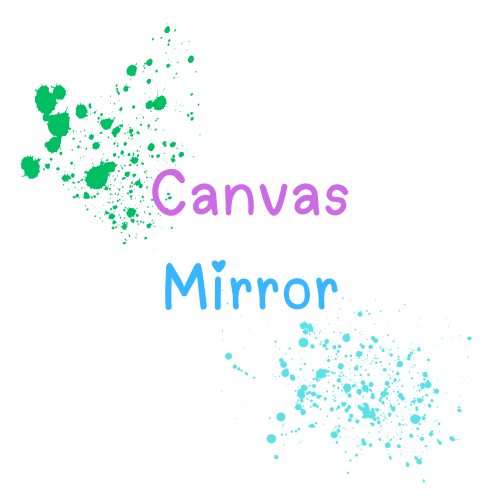
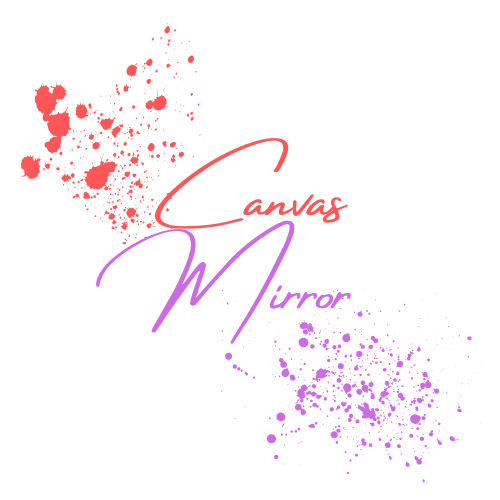
new img art

diff --git a/client/screens/lobby.tsx b/client/screens/lobby.tsx
@@ -2,7 +2,7 @@ import { ChevronLeft, ChevronRight } from "lucide-react";
 import { useEffect, useRef, useState, type FormEvent } from "react";
 import { useNavigate } from "react-router-dom";
 // import { useSocket } from "../services/use-socket-provider";
-
+import Footer from "../components/footer";
 function Lobby() {
   const navigate = useNavigate();
   const [details, setDetails] = useState({ name: "", room: "" });
@@ -121,98 +121,86 @@ function Lobby() {
   }, []);
 
   return (
-    <div className="flex  w-full h-[100dvh] overflow-hidden max-md:flex-col items-center">
-      <div className="w-full max-md:hidden h-full relative flex-2  p-2 items-center ">
-        <div
-          ref={sliderRef}
-          draggable={false}
-          className={` absolute h-full w-[2px] top-0 right-[0%] z-20 before:content-[''] before:absolute before:w-12 before:bg-pink-300 before:z-20 before:rounded-full before:p-1 after:w-10 after:content-[''] after:flex after:items-center after:justify-center after:text-center after:absolute after:bg-purple-400 after:h-10 after:rounded-full after:-translate-y-1/2 after:-translate-x-1/2 after:top-[50%] before:-translate-y-1/2 before:-translate-x-1/2 before:top-[50%] bg-teal-300 after:z-30 before:h-12 transition ease-in-out  cursor-ew-resize noselect`}
-        >
-          <span className="top-[50%] flex  -translate-y-1/2 left-[-20px] absolute z-40  ">
-            <ChevronLeft className="w-5 h-5 text-slate-100 translate-x-0.5" />
-            <ChevronRight className="w-5 h-5 text-slate-100 -translate-x-0.5" />
-          </span>
-        </div>
-        <img
-          ref={imageRef}
-          src="/img1.png"
-          alt="img1"
-          draggable={false}
-          className="w-full h-full absolute noselect transition ease-in-out top-0 z-10 left-0 aspect-auto object-contain clip-path  touch-none"
-        />
-        <img
-          src="/img2.png"
-          alt="img1"
-          draggable={false}
-          className="w-full h-full absolute noselect top-0 left-0 aspect-auto object-contain clip-path  touch-none"
-        />
-      </div>
-      <div className="flex-1 overflow-hidden  w-full h-full flex items-center justify-center">
-        {/* <div className=" h-fit  w-fit bg-gradient-to-tl from-emerald-400 via-pink-600 to-purple-400"> */}
-        <div className="flex gap-y-4 flex-col bg-white  items-center p-2 m-1  w-fit h-fit   border-zinc-200 ">
-          {/* <h1 className="text-4xl max-sm:text-3xl font-semibold text-teal-500 ">
-              Welcome to the Lobby
-              </h1> */}
-          <form
-            onSubmit={joinRoom}
-            className="flex flex-col justify-center items-center  p-3"
+    <div className="flex  w-full h-[100dvh] flex-col items-center">
+      <div className="flex  w-full h-full overflow-hidden max-md:flex-col items-center">
+        <div className="w-full max-md:hidden h-full relative flex-2  p-2 items-center ">
+          <div
+            ref={sliderRef}
+            draggable={false}
+            className={` absolute h-full w-[2px] top-0 right-[0%] z-20 before:content-[''] before:absolute before:w-12 before:bg-pink-300 before:z-20 before:rounded-full before:p-1 after:w-10 after:content-[''] after:flex after:items-center after:justify-center after:text-center after:absolute after:bg-purple-400 after:h-10 after:rounded-full after:-translate-y-1/2 after:-translate-x-1/2 after:top-[50%] before:-translate-y-1/2 before:-translate-x-1/2 before:top-[50%] bg-teal-300 after:z-30 before:h-12 transition ease-in-out  cursor-ew-resize noselect`}
           >
-            <div className="w-[200px] z-10 border-[1px] h-[200px] flex items-center justify-center">
-              <img
-                src="/canvas_new.png"
-                alt="canvas_new"
-                draggable={false}
-                className="w-fit h-full  noselect scale-200  aspect-square object-contain clip-path"
-              />
-            </div>
-            <div className="flex z-20 flex-col justify-center items-center  gap-y-2 p-3">
-              <div className=" flex gap-x-4 items-center justify-between">
-                {/* <label htmlFor="name" className="sm:text-lg text-xs">
-                Enter Name
-                </label> */}
-                <input
-                  placeholder="Enter Name"
-                  type="text"
-                  id="name"
-                  onChange={(e) =>
-                    setDetails((prev) => ({ ...prev, name: e.target.value }))
-                  }
-                  value={details.name}
-                  autoComplete="username"
-                  className="placeholder:text-xs placeholder:text-slate-500 md:text-xs md:w-[180px] md:h-[30px] text-slate-600 rounded-md bg-zinc-200 p-1 border-none outline-none focus-visible:ring-0"
+            <span className="top-[50%] flex  -translate-y-1/2 left-[-20px] absolute z-40  ">
+              <ChevronLeft className="w-5 h-5 text-slate-100 translate-x-0.5" />
+              <ChevronRight className="w-5 h-5 text-slate-100 -translate-x-0.5" />
+            </span>
+          </div>
+          <img
+            ref={imageRef}
+            src="/img1.png"
+            alt="img1"
+            draggable={false}
+            className="w-full h-full absolute noselect transition ease-in-out top-0 z-10 left-0 aspect-auto object-contain clip-path  touch-none"
+          />
+          <img
+            src="/img2.png"
+            alt="img1"
+            draggable={false}
+            className="w-full h-full absolute noselect top-0 left-0 aspect-auto object-contain clip-path  touch-none"
+          />
+        </div>
+        <div className="flex-1 overflow-hidden  w-full h-full flex items-center justify-center">
+          <div className="flex gap-y-4 flex-col bg-white  items-center p-2 m-1  w-fit h-fit   border-zinc-200 ">
+            <form
+              onSubmit={joinRoom}
+              className="flex flex-col justify-center items-center  p-3"
+            >
+              <div className="w-[200px] z-10 border-[1px] h-[200px] flex items-center justify-center">
+                <img
+                  src="/canvas_new.png"
+                  alt="canvas_new"
+                  draggable={false}
+                  className="w-fit h-full  noselect scale-200  aspect-square object-contain clip-path"
                 />
               </div>
-              <div className=" flex gap-x-4 items-center justify-between">
-                {/* <label htmlFor="room" className="sm:text-lg text-xs">
-                Enter Room No
-              </label> */}
-                <input
-                  id="room"
-                  placeholder="Enter Room No"
-                  onChange={(e) =>
-                    setDetails((prev) => ({
-                      ...prev,
-                      room: e.target.value,
-                    }))
-                  }
-                  value={details.room}
-                  autoComplete="off"
-                  className="placeholder:text-xs placeholder:text-slate-500 md:text-xs md:w-[180px] md:h-[30px] text-slate-600 rounded-md bg-zinc-200 p-1 border-none outline-none focus-visible:ring-0"
-                />
+              <div className="flex z-20 flex-col justify-center items-center  gap-y-2 p-3">
+                <div className=" flex gap-x-4 items-center justify-between">
+                  <input
+                    placeholder="Enter Name"
+                    type="text"
+                    id="name"
+                    onChange={(e) =>
+                      setDetails((prev) => ({ ...prev, name: e.target.value }))
+                    }
+                    value={details.name}
+                    autoComplete="username"
+                    className="placeholder:text-xs placeholder:text-slate-500 md:text-xs md:w-[180px] md:h-[30px] text-slate-600 rounded-md bg-zinc-200 p-1 border-none outline-none focus-visible:ring-0"
+                  />
+                </div>
+                <div className=" flex gap-x-4 items-center justify-between">
+                  <input
+                    id="room"
+                    placeholder="Enter Room No"
+                    onChange={(e) =>
+                      setDetails((prev) => ({
+                        ...prev,
+                        room: e.target.value,
+                      }))
+                    }
+                    value={details.room}
+                    autoComplete="off"
+                    className="placeholder:text-xs placeholder:text-slate-500 md:text-xs md:w-[180px] md:h-[30px] text-slate-600 rounded-md bg-zinc-200 p-1 border-none outline-none focus-visible:ring-0"
+                  />
+                </div>
+
+                <button className="bg-purple-600 mt-2 text-xs text-white ml-auto hover:scale-[102%] transition duration-300 w-full cursor-pointer py-2 rounded-md ">
+                  Submit
+                </button>
               </div>
-              {/* {isRoomFull && (
-              <h1 className="text-red-500 ml-auto">
-                Oops, Room is full — check back shortly.
-              </h1>
-            )} */}
-              <button className="bg-purple-600 mt-2 text-xs text-white ml-auto hover:scale-[102%] transition duration-300 w-full cursor-pointer py-2 rounded-md ">
-                Submit
-              </button>
-            </div>
-          </form>
+            </form>
+          </div>
         </div>
       </div>
-      {/* </div> */}
+      <Footer />
     </div>
   );
 }

diff --git a/client/components/footer.tsx b/client/components/footer.tsx
@@ -1,0 +1,23 @@
+import { Github } from "lucide-react";
+
+function Footer() {
+  return (
+    <footer className={` w-full`}>
+      <div className="flex relative justify-around items-center  text-black duration-300 py-2 border-t-[2px] border-slate-200">
+        <span className="md:text-sm  text-[12px] flex items-center justify-center gap-x-1">
+          Pixels speak louder than words &copy; {new Date().getFullYear()}{" "}
+          Canvas Mirror
+          <a
+            target="__blank"
+            href={"https://github.com/A-ryan-Kalra/canvas_mirror"}
+            className="bg-slate-300 rounded-full p-1 hover:bg-slate-200 cursor-pointer transition"
+          >
+            <Github className="fill-white w-4 sm:w-4 h-4 sm:h-4" />
+          </a>
+        </span>
+      </div>
+    </footer>
+  );
+}
+
+export default Footer;

diff --git a/README.md b/README.md
@@ -1,0 +1,9 @@
+<div align="center">
+
+# 🎨 Canvas Mirror
+
+### Free and Real-Time collaborative platform 🦄 🚀
+
+🎨 Canvas Mirror - It is a real-time collaborative whiteboard website. It allows multiple users to sketch together on a shared canvas, make notes and a lot more.
+
+</div>
